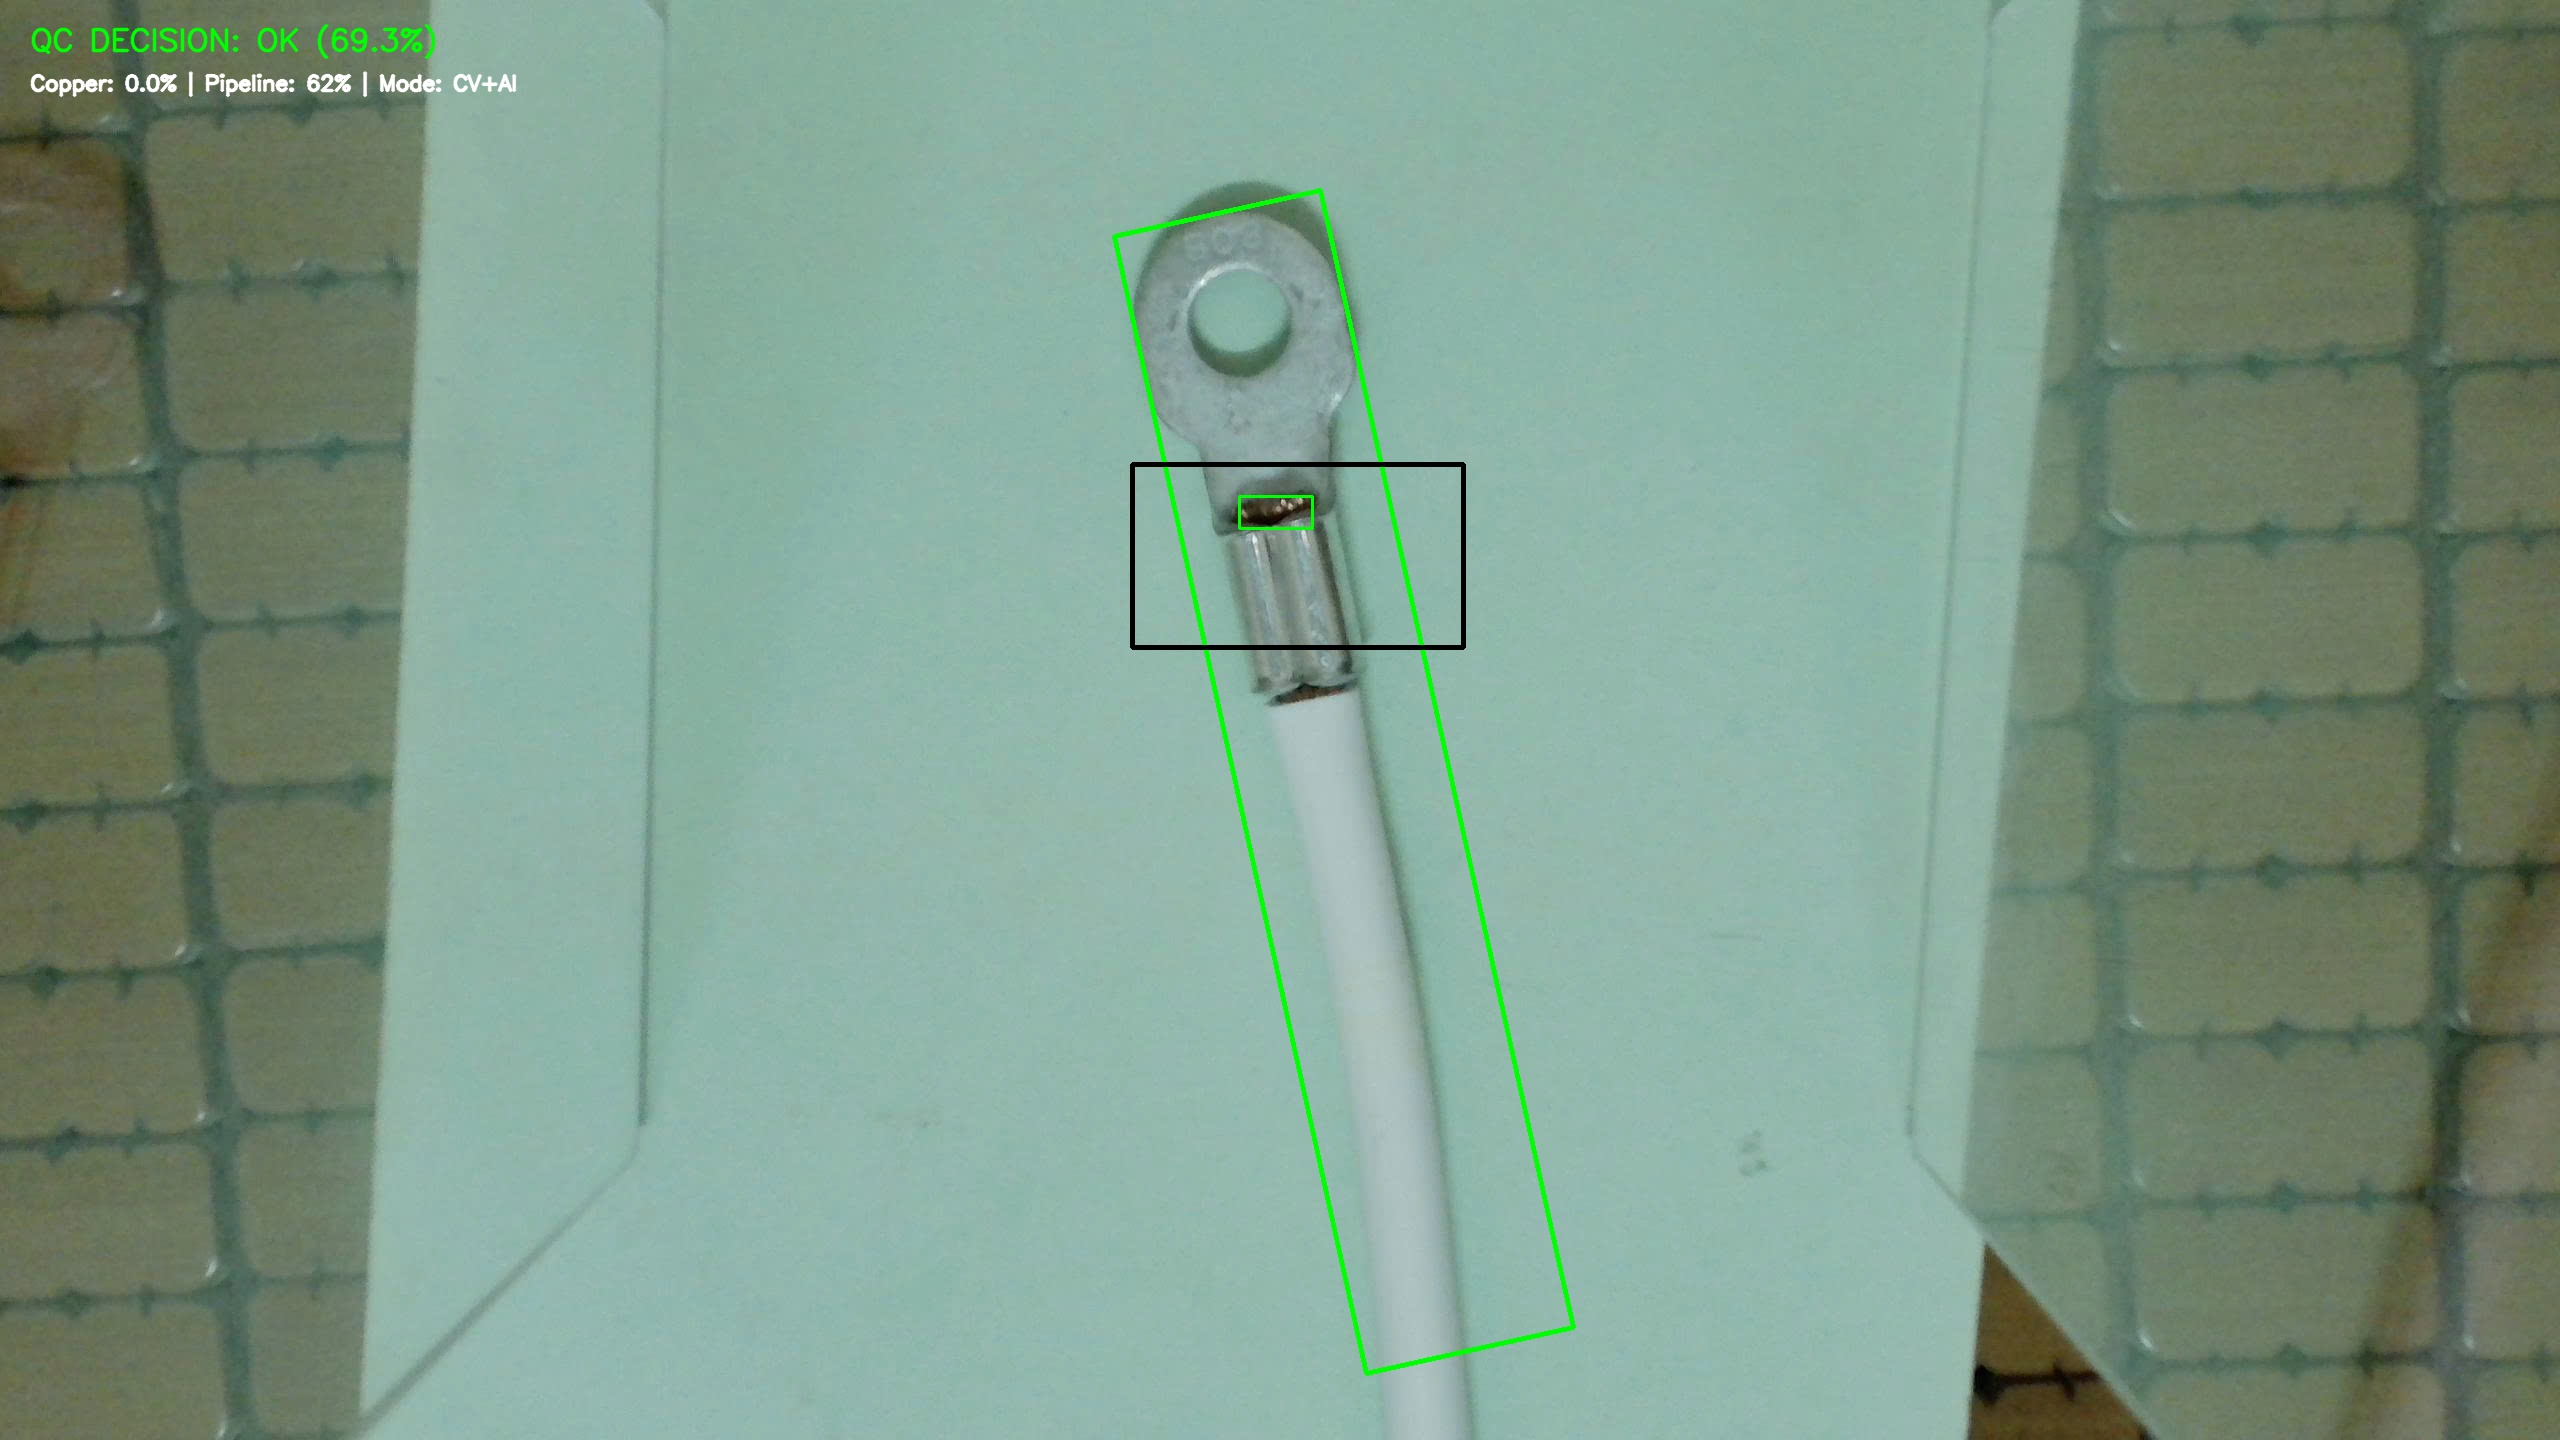
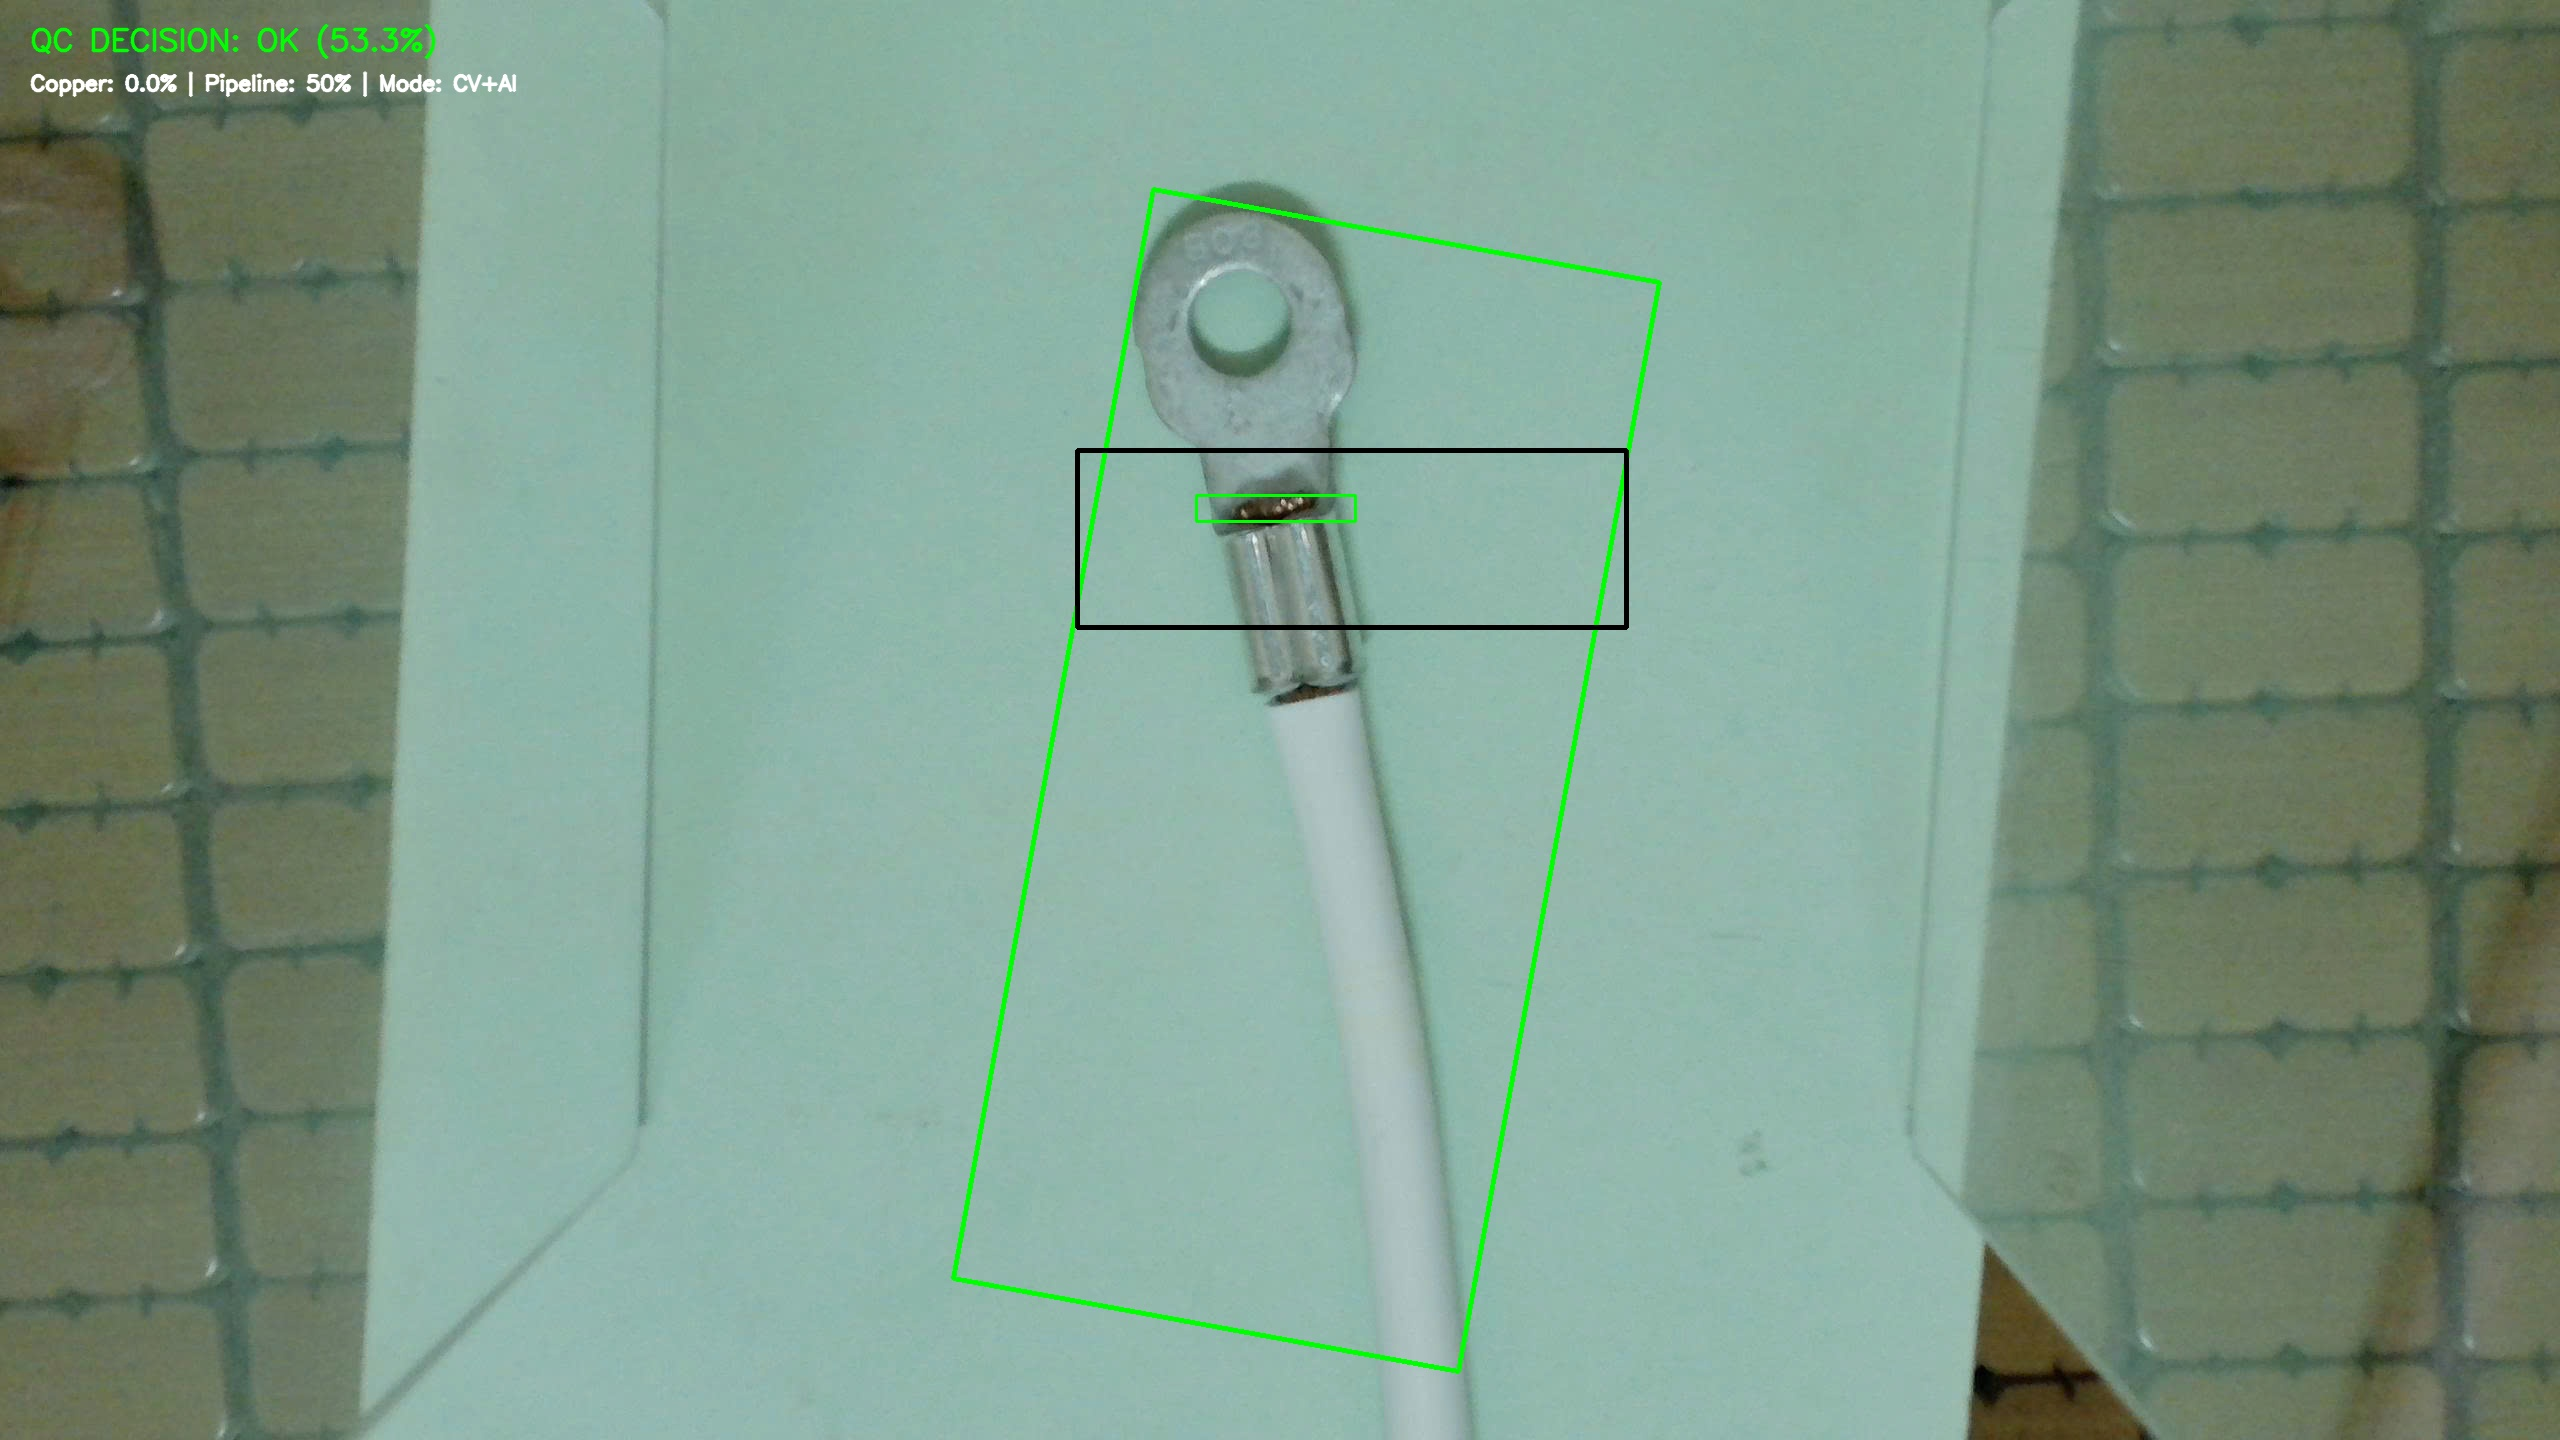
fix: enforce strict inner containment of sub-boxes and add greyed copper detection under realistic lighting

diff --git a/defect_detection_huggingface/preprocessing/image_processor.py b/defect_detection_huggingface/preprocessing/image_processor.py
@@ -262,45 +262,75 @@ class ImageProcessor:
         )
 
     def _get_visualization_bboxes(self, img, product_contour, h, w):
-        """Tính khung đen (đầu cos kim loại) và khung xanh/đỏ (vùng đồng) trên tọa độ ảnh gốc."""
+        """Tính khung đen (đầu cos kim loại) NẰM HOÀN TOÀN TRONG khung mẹ và khung xanh/đỏ (vùng đồng lộ)."""
         if product_contour is None:
             return None, None
 
         x_bb, y_bb, w_bb, h_bb = cv2.boundingRect(product_contour)
 
-        # Khung đen: bao quanh phần thân cos kim loại (crimp barrel)
+        # 1. Khung đen: Bao quanh phần thân cos kim loại (crimp barrel), ép NẰM HOÀN TOÀN TRONG khung mẹ
         if h_bb >= w_bb:
             t_y1 = y_bb + int(h_bb * 0.22)
-            t_y2 = y_bb + int(h_bb * 0.38)
-            t_x1 = max(0, x_bb - 4)
-            t_x2 = min(w, x_bb + w_bb + 4)
+            t_y2 = y_bb + int(h_bb * 0.37)
         else:
-            t_x1 = x_bb + int(w_bb * 0.22)
-            t_x2 = x_bb + int(w_bb * 0.38)
-            t_y1 = max(0, y_bb - 4)
-            t_y2 = min(h, y_bb + h_bb + 4)
+            t_y1 = y_bb + int(h_bb * 0.22)
+            t_y2 = y_bb + int(h_bb * 0.37)
+
+        # Tạo mask của product contour tại dải y của crimp barrel để ép x1, x2 nằm hẳn bên trong
+        cnt_mask = np.zeros((h, w), dtype=np.uint8)
+        cv2.drawContours(cnt_mask, [product_contour], -1, 255, -1)
+        crimp_strip_mask = cnt_mask[t_y1:t_y2, :]
+
+        cols_in_strip = np.where(np.any(crimp_strip_mask > 0, axis=0))[0]
+        if len(cols_in_strip) > 0:
+            t_x1 = cols_in_strip[0] + 2
+            t_x2 = cols_in_strip[-1] - 2
+        else:
+            t_x1, t_x2 = x_bb + 2, x_bb + w_bb - 2
 
         terminal_bbox = (t_x1, t_y1, t_x2, t_y2)
 
-        # Khung xanh/đỏ: bao quanh toàn bộ dải đồng lộ ra ở đầu cos
+        # 2. Khung xanh/đỏ: Bao trọn toàn bộ dải đồng lộ tại khớp nối (kể cả màu đồng bị xám do ánh sáng)
         copper_bbox_orig = None
         roi_img = img[t_y1:t_y2, t_x1:t_x2]
-        if roi_img.size > 0:
-            roi_hsv = cv2.cvtColor(roi_img, cv2.COLOR_BGR2HSV)
-            roi_lab = cv2.cvtColor(roi_img, cv2.COLOR_BGR2LAB)
-            c_hsv = cv2.inRange(roi_hsv, np.array([3, 35, 40]), np.array([25, 255, 230]))
-            c_lab = ((roi_lab[:, :, 1] > 125) & (roi_lab[:, :, 2] > 125)).astype(np.uint8) * 255
-            c_comb = cv2.bitwise_or(c_hsv, c_lab)
+        c_roi_mask = cnt_mask[t_y1:t_y2, t_x1:t_x2]
 
-            k_copper = cv2.getStructuringElement(cv2.MORPH_RECT, (5, 3))
+        if roi_img.size > 0:
+            r_lab = cv2.cvtColor(roi_img, cv2.COLOR_BGR2LAB)
+            r_hsv = cv2.cvtColor(roi_img, cv2.COLOR_BGR2HSV)
+
+            L = r_lab[:, :, 0]
+            A = r_lab[:, :, 1]
+            B = r_lab[:, :, 2]
+            H_c = r_hsv[:, :, 0]
+            S_c = r_hsv[:, :, 1]
+            V_c = r_hsv[:, :, 2]
+
+            # Phân tách màu đồng nhạy hơn với ánh sáng thực tế (đồng rực + đồng bị xám/tối)
+            c_hsv = (H_c >= 2) & (H_c <= 28) & (S_c > 30) & (V_c < 230)
+            c_greyed = (A >= 123) & (A > B - 3) & (L < 165) & (S_c > 12) & (c_roi_mask > 0)
+            c_comb = (c_hsv | c_greyed).astype(np.uint8) * 255
+
+            # Chỉ tập trung ở vùng khớp nối đỉnh (0-40% chiều cao Crimp ROI)
+            crimp_h = roi_img.shape[0]
+            c_comb[int(crimp_h * 0.40):, :] = 0
+
+            k_copper = cv2.getStructuringElement(cv2.MORPH_RECT, (7, 3))
             c_comb = cv2.morphologyEx(c_comb, cv2.MORPH_CLOSE, k_copper, iterations=2)
 
             cnts, _ = cv2.findContours(c_comb, cv2.RETR_EXTERNAL, cv2.CHAIN_APPROX_SIMPLE)
             valid = [c for c in cnts if cv2.contourArea(c) > 10]
             if valid:
                 all_pts = np.vstack(valid)
-                cx, cy, cw, ch = cv2.boundingRect(all_pts)
-                copper_bbox_orig = (t_x1 + cx, t_y1 + cy, t_x1 + cx + cw, t_y1 + cy + ch)
+                cx_c, cy_c, cw_c, ch_c = cv2.boundingRect(all_pts)
+
+                margin_x = int(roi_img.shape[1] * 0.08)
+                cx_final = max(2, cx_c - margin_x)
+                cw_final = min(roi_img.shape[1] - cx_final - 2, cw_c + margin_x * 2)
+                cy_final = max(1, cy_c - 1)
+                ch_final = ch_c + 2
+
+                copper_bbox_orig = (t_x1 + cx_final, t_y1 + cy_final, t_x1 + cx_final + cw_final, t_y1 + cy_final + ch_final)
 
         return terminal_bbox, copper_bbox_orig
 
